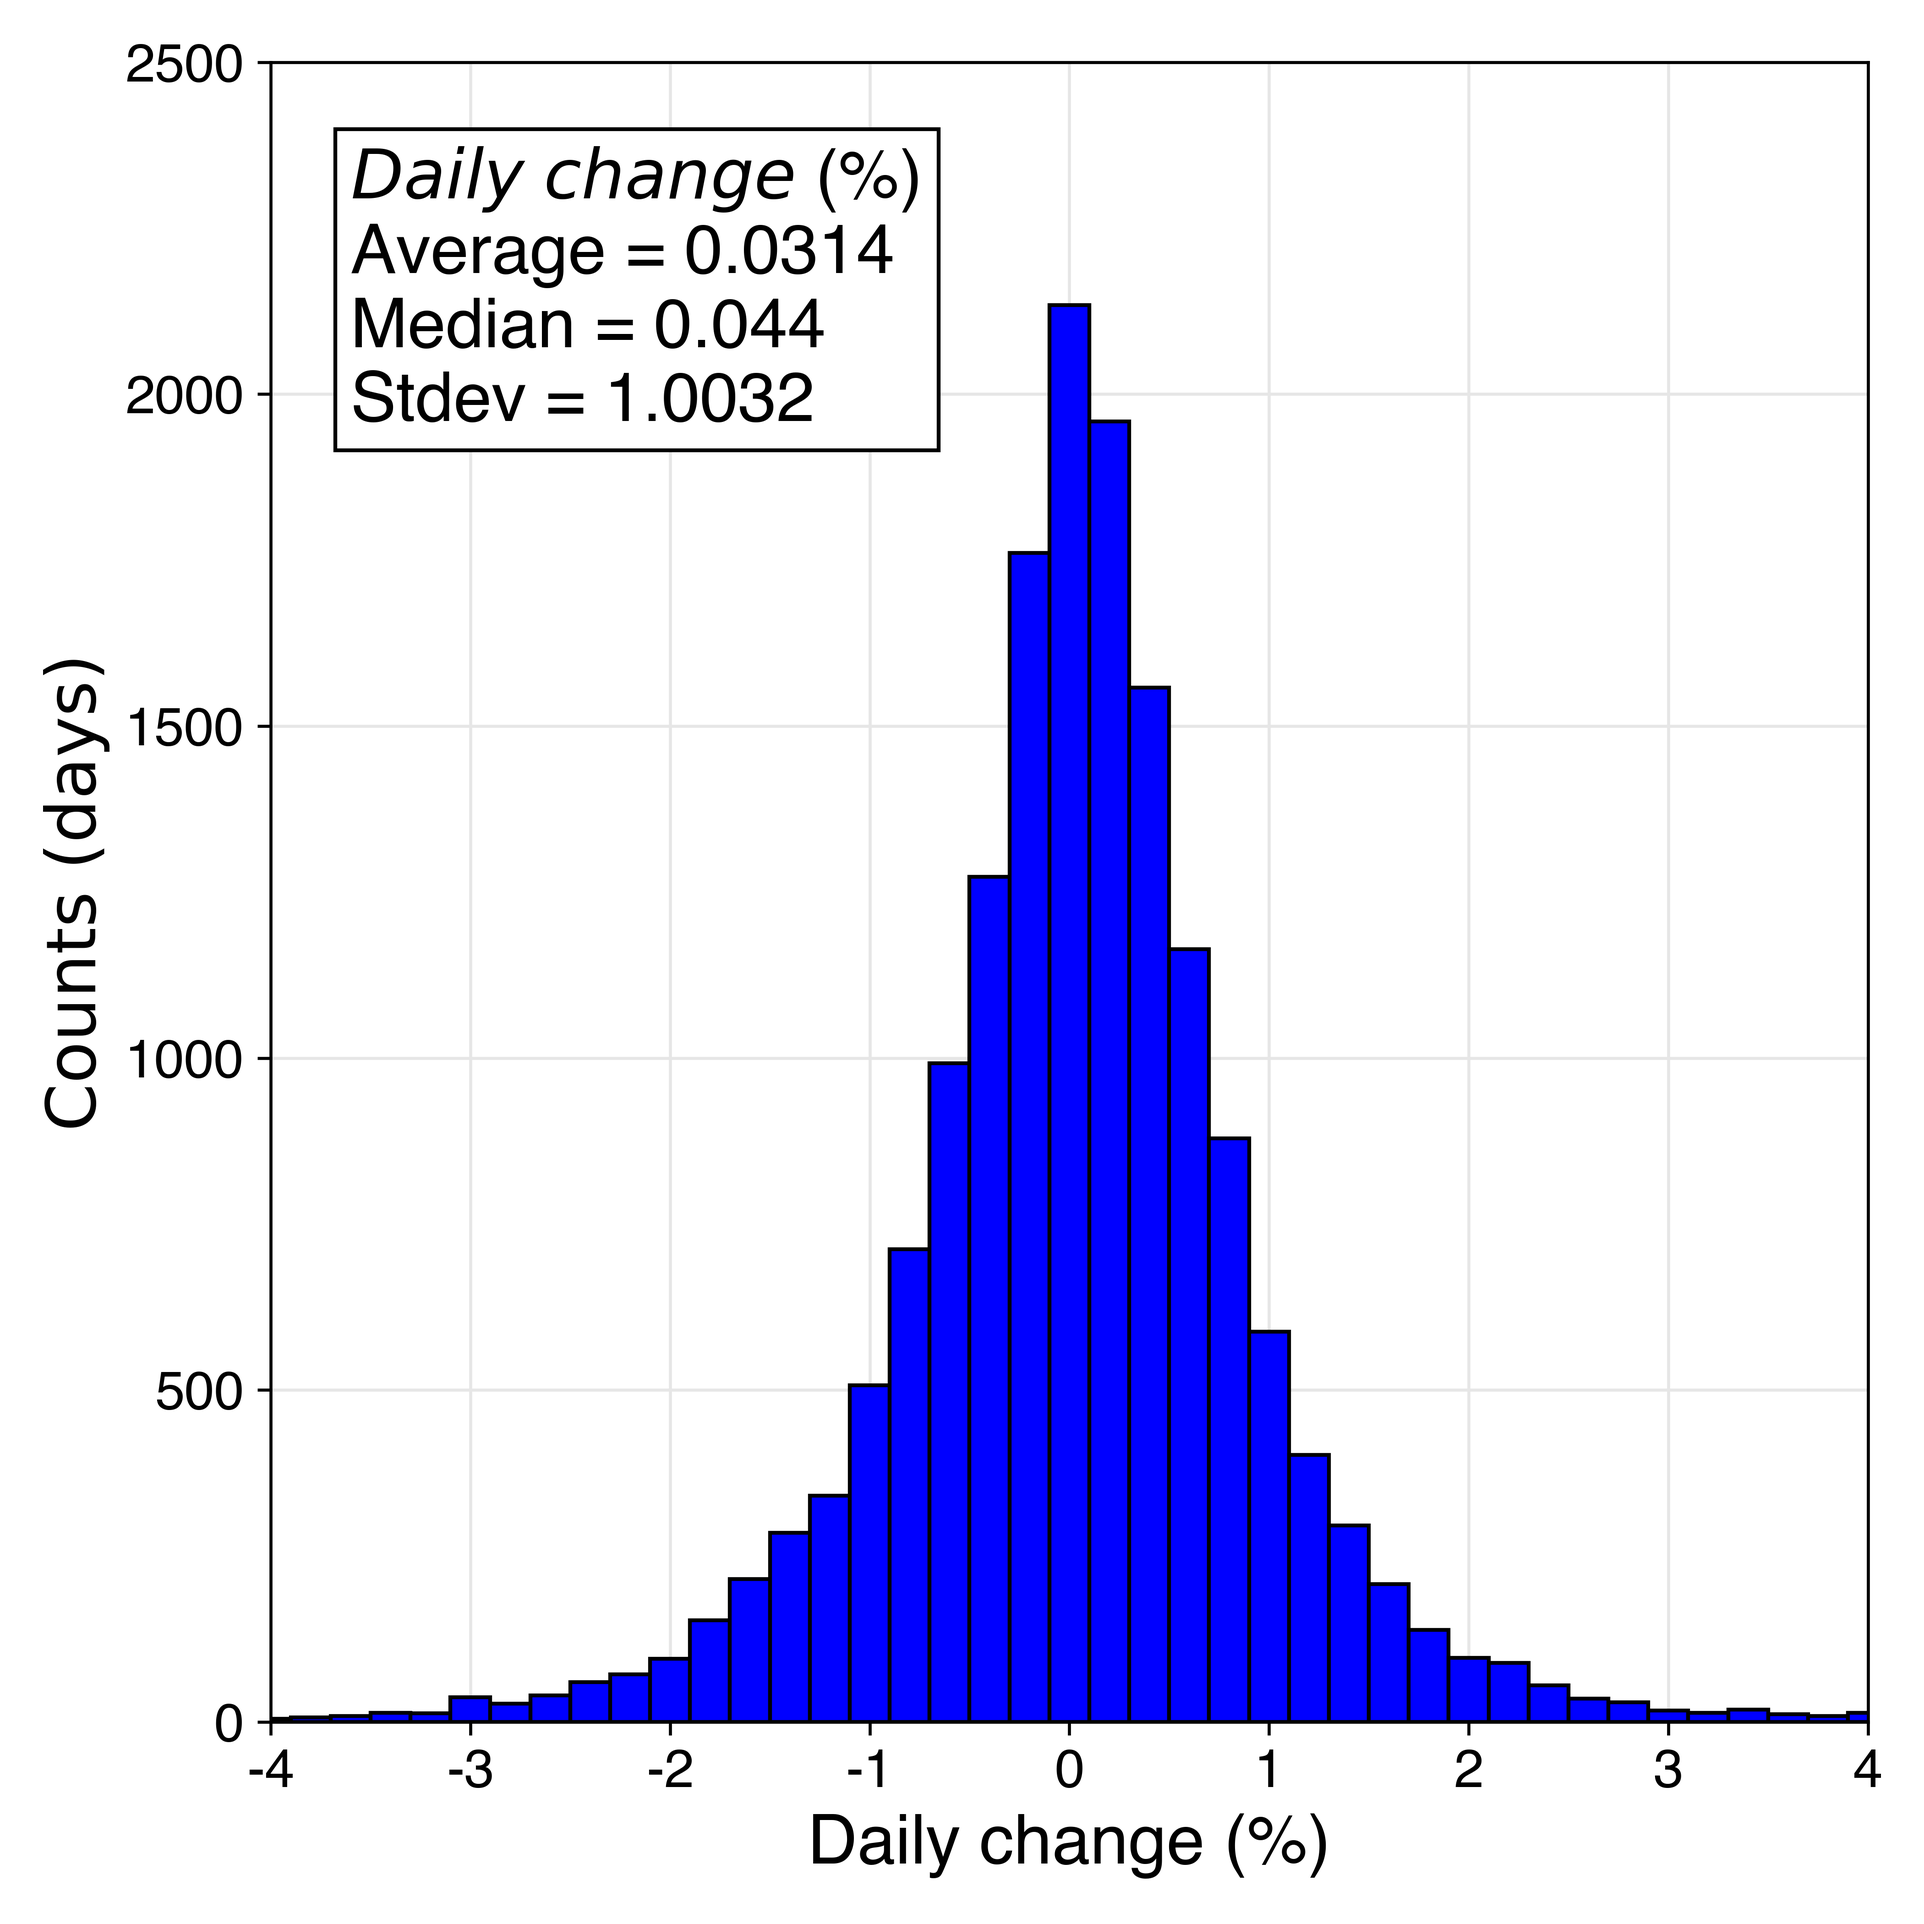
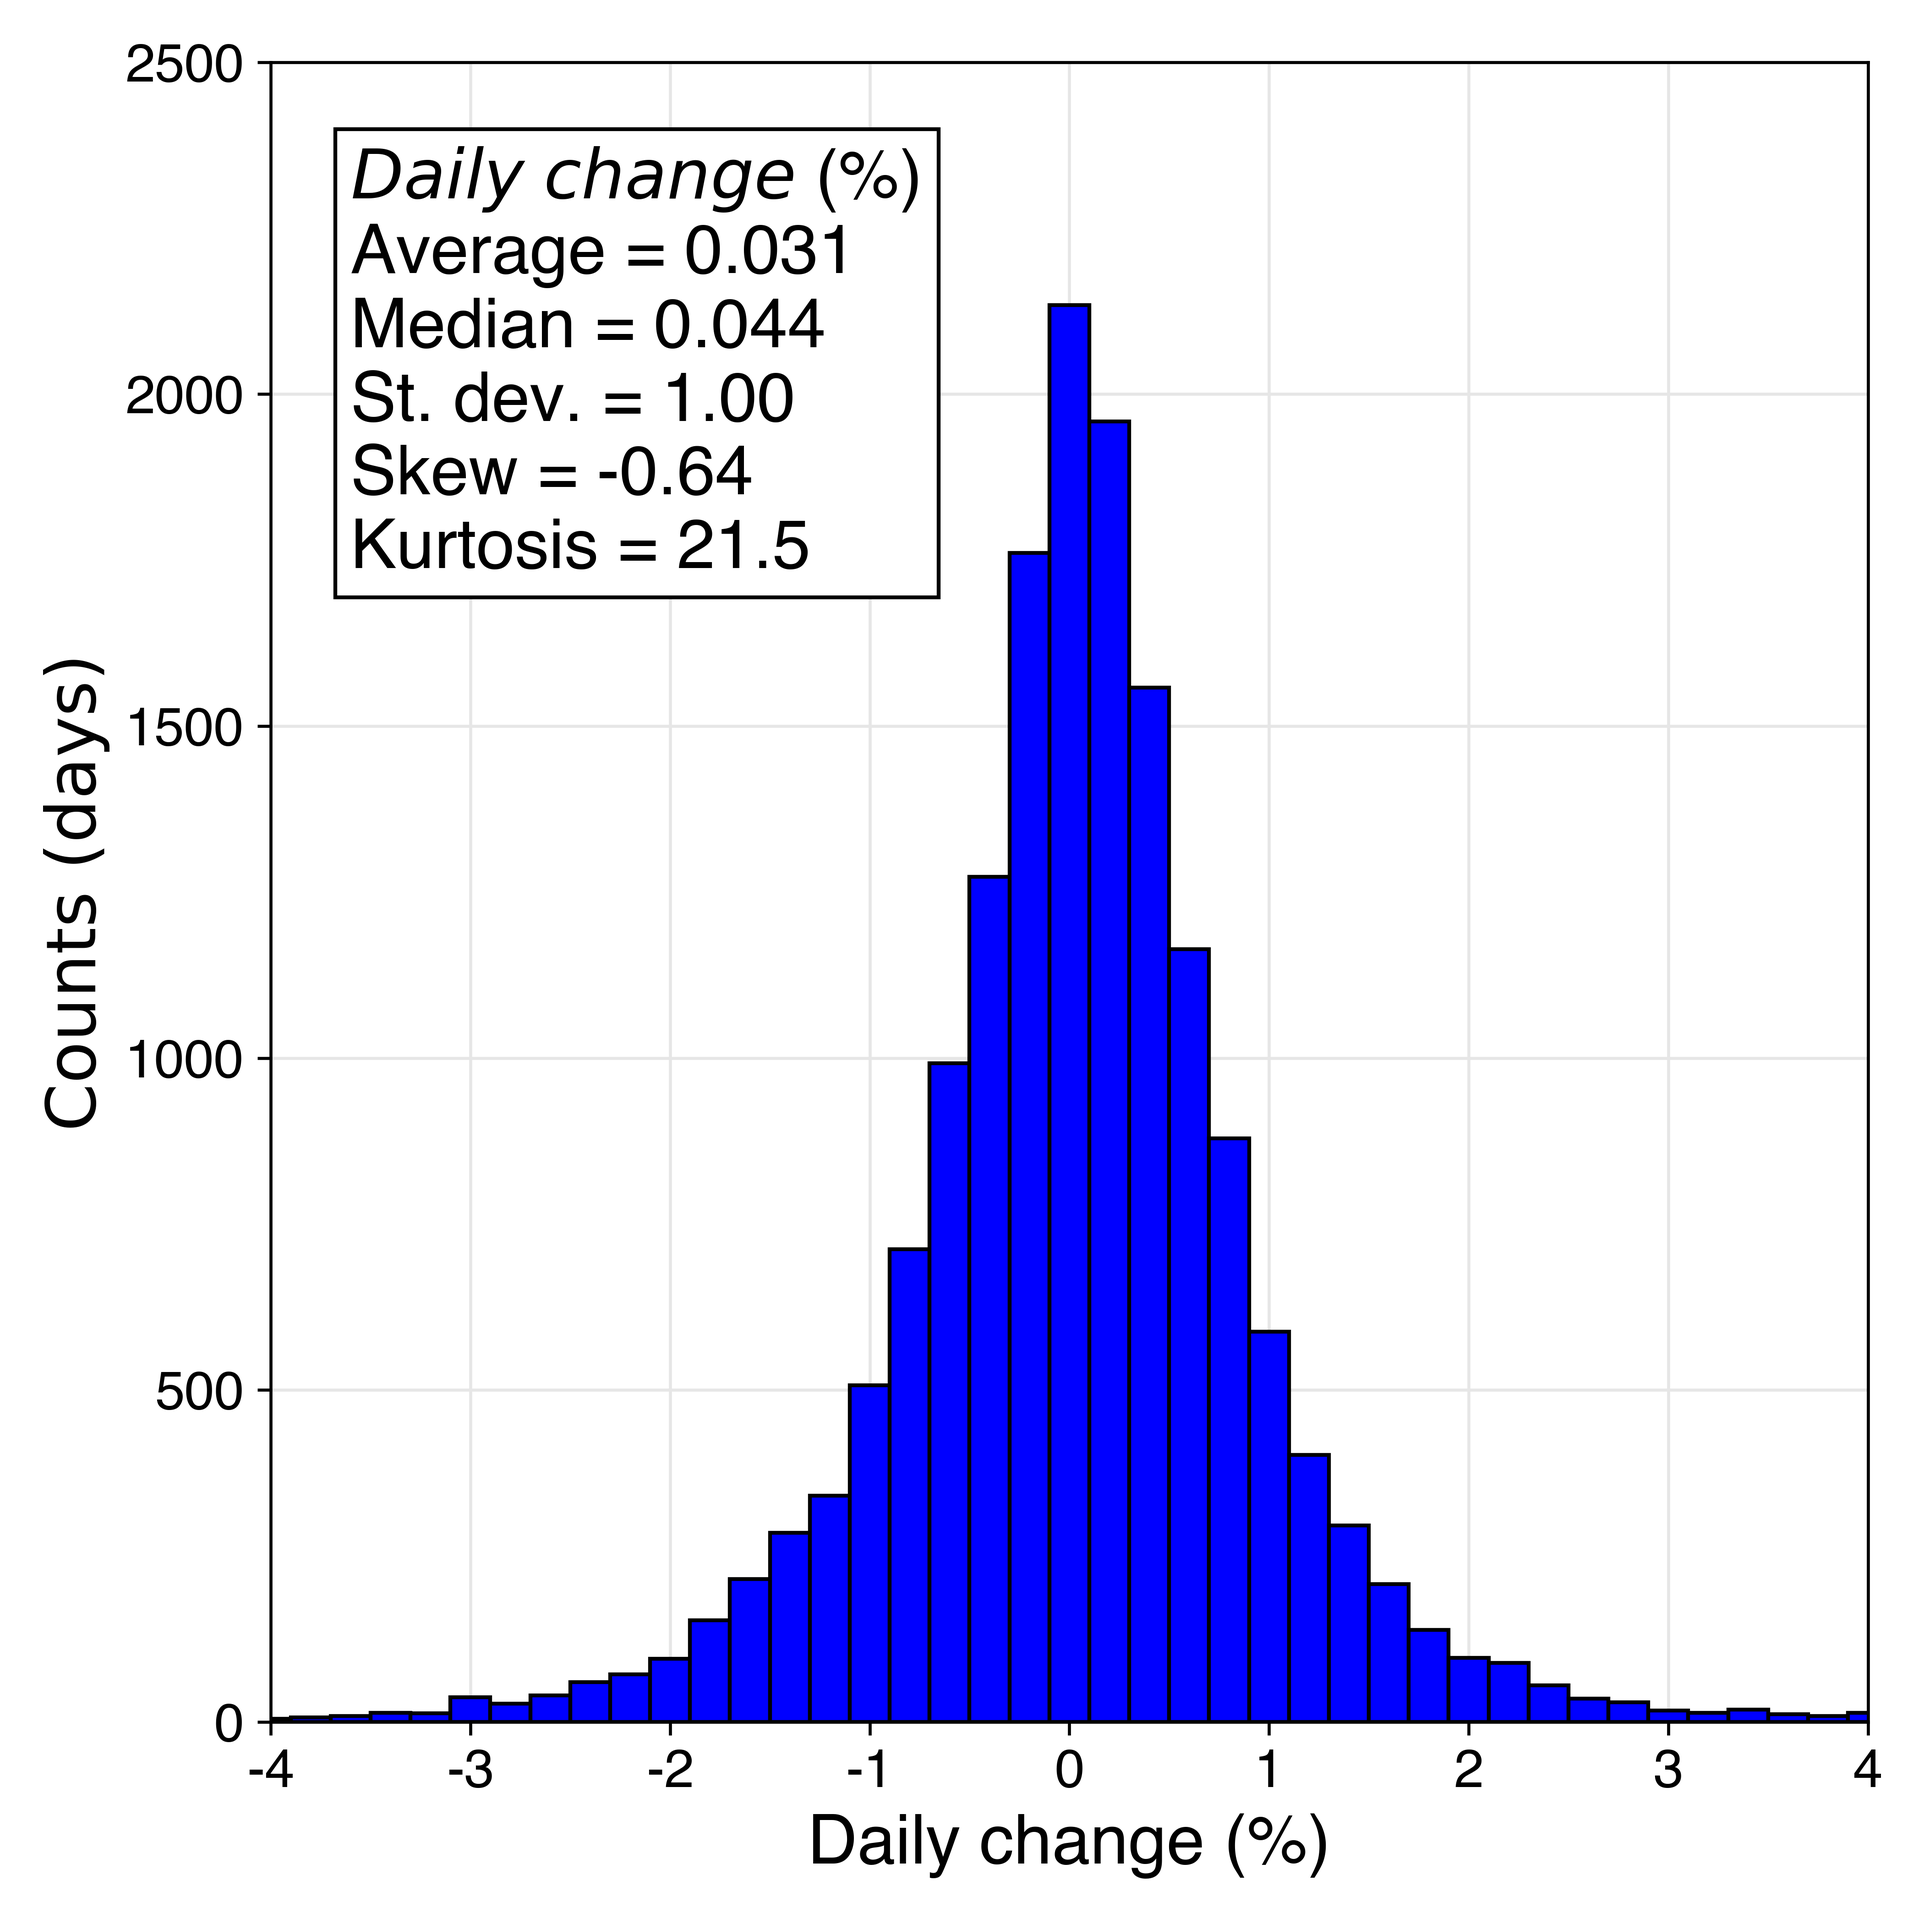
Continued analysis

Changed region(s): [[0.156, 0.1871, 0.499, 0.3119], [0.4367, 0.1248, 0.4679, 0.156]]

diff --git a/Stock analysis 3.py b/Stock analysis 3.py
@@ -8,7 +8,6 @@ os.chdir('/Users/michaelboles/Michael/Coding/2020/Insight/Project/Stocks/')
 # import warnings; warnings.simplefilter('ignore')
 import pandas as pd
 import matplotlib.pyplot as plt
-import matplotlib
 import numpy as np
 
 # import data
@@ -20,7 +19,7 @@ sp_changes = pd.read_csv('./data/sp_changes.csv')
 sp_changes['date'] = pd.to_datetime(sp_changes['date'])
 
 # select date range to filter
-min_year = 1955
+min_year = 1928
 max_year = 2020
 sp_3 = sp_changes[(sp_changes['date'] >= pd.Timestamp(min_year, 1, 1, 12)) & 
                   (sp_changes['date'] <= pd.Timestamp(max_year+1, 1, 1, 12))]
@@ -101,6 +100,52 @@ plt.show()
 
 # plt.grid(); ax.grid(color=(.9, .9, .9)); ax.set_axisbelow(True)
 # plt.show()
+
+
+
+### CALCULATE TIME INTERVAL BETWEEN NEIGHBORING HIGHS ###
+
+sp_5 = sp_3[sp_3['off from high'] == 0]
+high_fraction = len(sp_5)/len(sp_3)
+
+neighboring_highs = pd.DataFrame({'high date': sp_5['date'],
+                                  'high close': sp_5['close'],
+                                  'next high date': sp_5['date'].shift(-1),
+                                  'next high close': sp_5['close'].shift(-1),
+                                  'date diff': (sp_5['date'].shift(-1) - sp_5['date']).astype('timedelta64[D]'),
+                                  'close diff': round(sp_5['close'].shift(-1) - sp_5['close'], 3),
+                                  'close diff (%)': round(100*(sp_5['close'].shift(-1) - sp_5['close'])/sp_5['close'], 3)})
+
+
+# plot histogram
+
+# create textbox
+data = neighboring_highs['date diff']
+# data = neighboring_highs['close diff (%)']
+average = np.nanmean(data)
+median = np.nanmedian(data)
+stdev = np.std(data)
+props = dict(facecolor='white', edgecolor='none', alpha=0.67)
+textbox = '$Time$ $between$ $highs$ $(days)$ \nAverage = %0.1f \nMedian = %0.0f \nStdev = %0.0f' % (average, median, stdev)
+text_pos = 0.35
+
+from plotfunctions_1 import plot_hist
+save=False
+binwidth = 10
+xmin = -20; xmax = 3000
+ymin = 0; ymax = 1000
+xlabel = 'Time between highs (days)'; ylabel = 'Counts'
+figure_name = './images/time_between_highs_' + str(min_year) + '_' + str(max_year) + '.png'
+plot_hist(data, binwidth, textbox, props, text_pos, xmin, xmax, ymin, ymax, xlabel, ylabel, save, figure_name)
+
+from plotfunctions_1 import plot_hist_log_y
+save=True
+binwidth = 10
+xmin = -2; xmax = 250
+ymin = 0; ymax = 1000; yticks = [1, 10, 100, 1000]
+xlabel = 'Time between highs (days)'; ylabel = 'Counts'
+figure_name = './images/time_between_highs_log_' + str(min_year) + '_' + str(max_year) + '_2.png'
+plot_hist_log_y(data, binwidth, textbox, props, text_pos, xmin, xmax, ymin, ymax, xlabel, ylabel, yticks, save, figure_name)
 
 
 

diff --git a/plotfunctions_1.py b/plotfunctions_1.py
@@ -14,7 +14,7 @@ import pandas as pd
 
 # plot histogram
 
-def plot_hist(data, binwidth, textbox, props, xmin, xmax, ymin, ymax, xlabel, ylabel, save, figure_name):
+def plot_hist(data, binwidth, textbox, props, text_pos, xmin, xmax, ymin, ymax, xlabel, ylabel, save, figure_name):
     fig, ax = plt.subplots(1,1,figsize=(7,7))
     bins = np.arange(round(min(data),1), max(data) + binwidth, binwidth)
     props = dict(facecolor='white', alpha=1.0)
@@ -31,7 +31,7 @@ def plot_hist(data, binwidth, textbox, props, xmin, xmax, ymin, ymax, xlabel, yl
     for tick in ax.get_yticklabels():
         tick.set_fontname('Helvetica')
         
-    ax.text(0.05, 0.95, textbox, transform = ax.transAxes, fontsize = 18, 
+    ax.text(text_pos, 0.95, textbox, transform = ax.transAxes, fontsize = 18, 
             fontname = 'Helvetica', verticalalignment = 'top', bbox = props)
 
     plt.rcParams['axes.unicode_minus'] = False
@@ -49,7 +49,7 @@ def plot_hist(data, binwidth, textbox, props, xmin, xmax, ymin, ymax, xlabel, yl
         plt.savefig(figure_name, dpi = 600)
     plt.show()
     
-def plot_hist_log_y(data, binwidth, textbox, props, xmin, xmax, ymin, ymax, xlabel, ylabel, yticks, save, figure_name):
+def plot_hist_log_y(data, binwidth, textbox, props, text_pos, xmin, xmax, ymin, ymax, xlabel, ylabel, yticks, save, figure_name):
     fig, ax = plt.subplots(1,1,figsize=(7,7))
     bins = np.arange(round(min(data),1), max(data) + binwidth, binwidth)
     props = dict(facecolor='white', alpha=1.0)
@@ -71,7 +71,7 @@ def plot_hist_log_y(data, binwidth, textbox, props, xmin, xmax, ymin, ymax, xlab
     for tick in ax.get_yticklabels():
         tick.set_fontname('Helvetica')
 
-    ax.text(0.05, 0.95, textbox, transform = ax.transAxes, fontsize = 18, 
+    ax.text(text_pos, 0.95, textbox, transform = ax.transAxes, fontsize = 18, 
             fontname = 'Helvetica', verticalalignment = 'top', bbox = props)
 
     plt.rcParams['axes.unicode_minus'] = False

diff --git a/Stock analysis 2.py b/Stock analysis 2.py
@@ -30,7 +30,7 @@ sp_2
 sp_2.to_csv('./data/sp_changes.csv', index=False)
 
 # # select date range to filter
-min_year = 1955
+min_year = 1928
 max_year = 2020
 sp_3 = sp_2[(sp_2['date'] >= pd.Timestamp(min_year, 1, 1, 12)) & 
             (sp_2['date'] <= pd.Timestamp(max_year+1, 1, 1, 12))]
@@ -44,19 +44,28 @@ data = sp_3['daily change pct'][1:]
 average = np.nanmean(data)
 median = np.nanmedian(data)
 stdev = np.std(data)
+from scipy.stats import skew, kurtosis
+skew = skew(data) # negative skew - longer left-side tail
+kurtosis = kurtosis(data) # positive kurtosis - more probability density at tails than normal dist
 props = dict(facecolor='white', edgecolor='none', alpha=0.67)
-textbox = '$Daily$ $change$ (%%) \nAverage = %s \nMedian = %s \nStdev = %s' % (round(average,4), round(median,4), round(stdev,4))
+textbox = '$Daily$ $change$ (%%) \nAverage = %0.3f \nMedian = %0.3f \nSt. dev. = %0.2f \nSkew = %0.2f \nKurtosis = %0.1f' % (average, median, stdev, skew, kurtosis)
+text_pos = 0.05
 
 from plotfunctions_1 import plot_hist
-save=False
+save=True
 binwidth = 0.2
 xmin = -4; xmax = 4
-ymin = 0; ymax = 2500
+ymin = 0; ymax = 3000
 xlabel = 'Daily change (%)'; ylabel = 'Counts (days)'
 figure_name = './images/daily_changes_' + str(min_year) + '_' + str(max_year) + '.png'
-plot_hist(data, binwidth, textbox, props, xmin, xmax, ymin, ymax, xlabel, ylabel, save, figure_name)
+plot_hist(data, binwidth, textbox, props, text_pos, xmin, xmax, ymin, ymax, xlabel, ylabel, save, figure_name)
 
 
+# calculate other moments of this distribution
+import seaborn as sns
+from scipy.stats import norm
+sns.distplot(data, bins=100, fit=norm)
+plt.xlim(-4,4)
 
 # ### CALCULATE ANNUALIZED RETURNS ACROSS A DECADE ###
 
